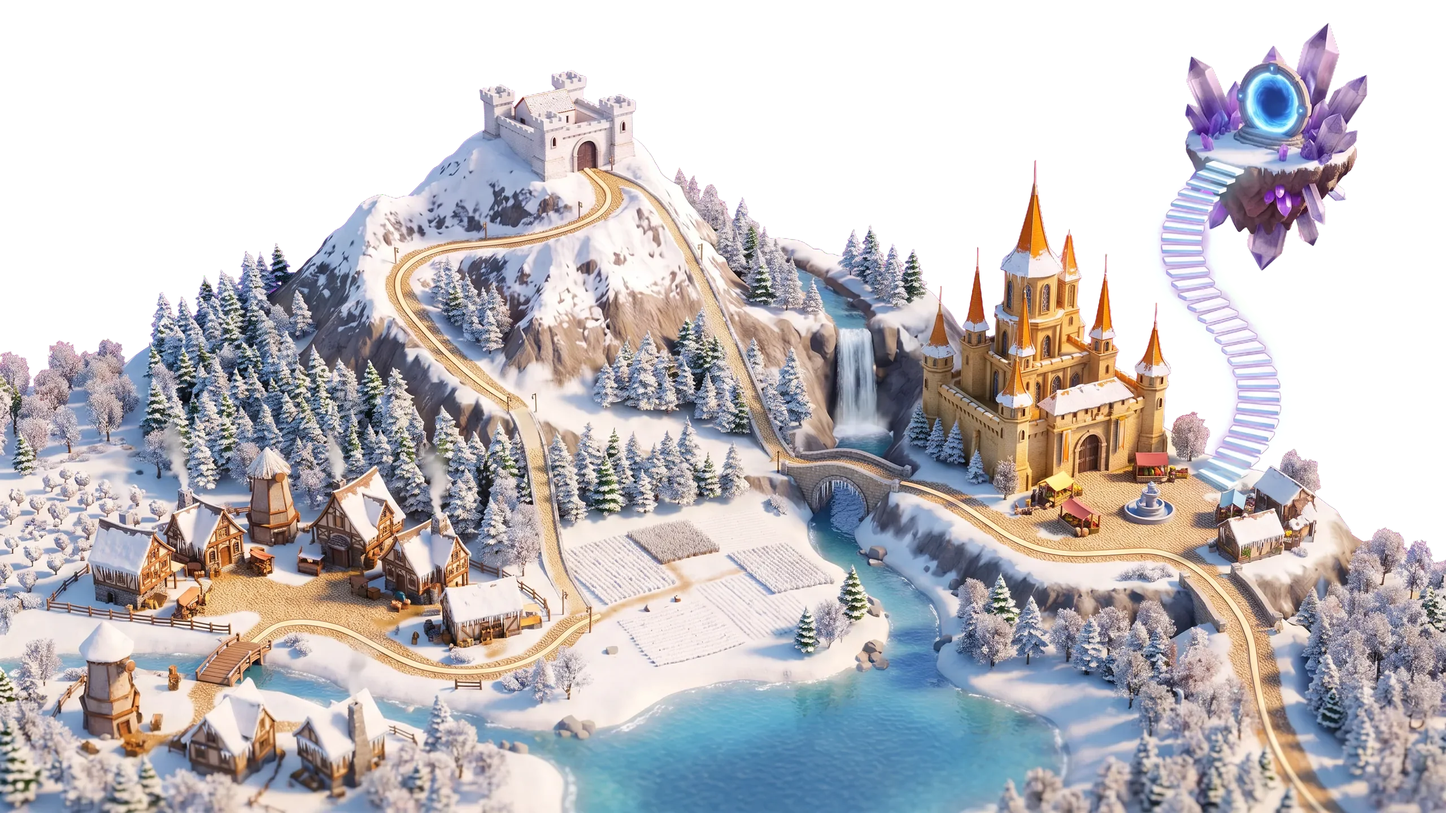
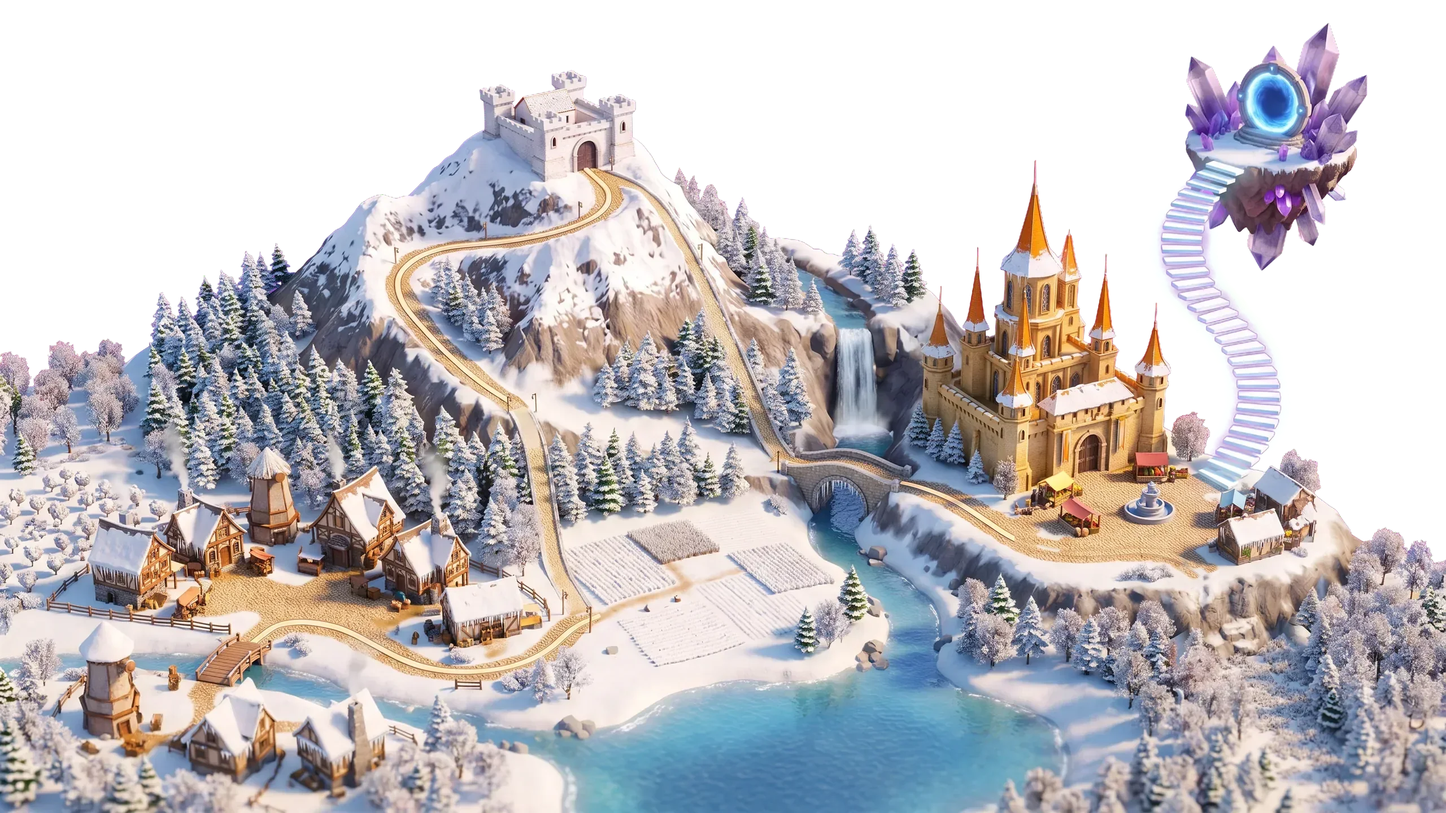
Team Quest map: clean sealed scroll, styled idle note, paint out the stray road
- The sealed scroll in the general view had a grey box round it: the rods'
  drop-shadow sat on the cropped picture and filled its whole crop strip. Each
  rod now casts a soft painted shadow instead (no filter, so it costs nothing
  while the scroll floats).
- The general-view note lost its styling because the map's stylesheet only
  arrived with the world; the sealed scroll now fetches it and shows once it
  applies. The note sits just under the scroll.
- The painting had a road branch running from the citadel square down off the
  map, edged with a cream kerb that read as a white line: painted out in all
  four seasons (and its night lamp light), kerb removed from the square edge.

Claude-Session: https://claude.ai/code/session_014YnXNjek2g3Lk1qyUU884y

Changed region(s): [[0.8125, 0.6875, 0.9375, 1.0], [0.6875, 0.6562, 0.8125, 0.6875]]

diff --git a/styles/team_quest_map_living.css b/styles/team_quest_map_living.css
@@ -82,6 +82,8 @@
    which line up at any size.
    Poses: rolled → moving → open (the ordinary resting map). */
 .tq-living-map { --tq-open: 1; }
+/* Waiting for its stylesheet (features/worldMap.js#renderSealedLeagueMapInto). */
+.tq-living-map[data-styling='pending'] { visibility: hidden; }
 .tq-living-map[data-scroll='rolled'] { --tq-open: 0; }
 
 .tq-unroll {
@@ -135,8 +137,25 @@
     height: 100%;
     object-fit: fill;
     user-select: none;
-    filter: drop-shadow(0 1.2rem 1.25rem rgba(74, 42, 13, 0.3));
 }
+
+/* Each rod's soft shadow is a painted glow under it, not a filter: a
+   drop-shadow on the cropped picture fills its whole crop strip as a grey
+   box, and one on the moving side would be redrawn every frame. */
+.tq-unroll__side::before {
+    content: '';
+    position: absolute;
+    top: 9%;
+    bottom: 3%;
+    width: 6%;
+    border-radius: 50%;
+    background: radial-gradient(closest-side, rgba(74, 42, 13, 0.3), rgba(74, 42, 13, 0.12) 60%, rgba(74, 42, 13, 0));
+    transform: translateY(1.2rem);
+    pointer-events: none;
+}
+
+.tq-unroll__side--left::before { left: -0.6%; }
+.tq-unroll__side--right::before { right: -0.6%; }
 
 .tq-unroll__side--left .tq-unroll__roll { clip-path: inset(0 95.17% 0 0); }
 .tq-unroll__side--right .tq-unroll__roll { clip-path: inset(0 0 0 95.17%); }

diff --git a/features/worldMap.js b/features/worldMap.js
@@ -576,7 +576,15 @@ export function renderSealedLeagueMapInto(slot, note = '') {
     let root = slot.querySelector('[data-living-quest-map]');
     if (!root) {
         slot.innerHTML = generateLeagueMapHtml([], {});
-        root = arrive(slot.querySelector('[data-living-quest-map]'));
+        root = slot.querySelector('[data-living-quest-map]');
+        // The scroll's own styles come with the world (worldScene.js); with no
+        // map started yet, fetch them here and show the scroll once they apply.
+        root.dataset.styling = 'pending';
+        const shown = root;
+        import('../styles/quest_world.css').catch(() => {}).then(() => {
+            delete shown.dataset.styling;
+            arrive(shown);
+        });
     }
     root.classList.add('is-idle');
     setIdleNote(root, note);

diff --git a/styles/quest_world.css b/styles/quest_world.css
@@ -1711,7 +1711,8 @@
 
 .tq-idle-note {
     position: absolute;
-    bottom: 9%;
+    /* Just under the sealed scroll's lower finial, clear of the rods. */
+    top: calc(100% + 0.5rem);
     left: 50%;
     z-index: 5;
     margin: 0;

diff --git a/tools/team-quest-map/remove_road_branch.py b/tools/team-quest-map/remove_road_branch.py
@@ -1,0 +1,44 @@
+"""Paints out the road branch that ran from the citadel square down off the map.
+
+A 640 x 576 crop of land-<season>-2560.webp at (1856, 864) was repainted without
+the branch by gemini-3.1-flash-image (prompt in README.md); this aligns each
+repaint on the unchanged square and pastes it inside the branch's outline, at
+2560 and 1600, and darkens the night lights there. Run in the folder holding
+<season>.png crops and e-<season>.png repaints. `preview` draws the outline.
+"""
+import cv2, numpy as np, sys
+from PIL import Image, ImageDraw
+P='/home/user/TheGreatClassQuest/assets/team-quest-map/painted/'
+X0,Y0,W,H=1856,864,640,576
+POLY=[(205,128),(335,112),(432,210),(428,262),(452,330),(485,420),(530,520),(560,576),(390,576),(330,470),(282,360),(240,250),(205,180)]
+def mask():
+    m=Image.new('L',(W,H),0); ImageDraw.Draw(m).polygon(POLY,fill=255)
+    m=np.asarray(m).astype(np.float32)/255
+    m=cv2.dilate(m,np.ones((9,9),np.uint8)); return cv2.GaussianBlur(m,(0,0),9).clip(0,1)
+def align(orig,edit):
+    g1=cv2.cvtColor(orig,cv2.COLOR_RGB2GRAY); g2=cv2.cvtColor(edit,cv2.COLOR_RGB2GRAY)
+    top=np.zeros_like(g1); top[:130]=255
+    sift=cv2.SIFT_create(4000)
+    k1,d1=sift.detectAndCompute(g1,top); k2,d2=sift.detectAndCompute(g2,None)
+    m=cv2.BFMatcher().knnMatch(d2,d1,k=2); good=[a for a,b in m if a.distance<0.7*b.distance]
+    src=np.float32([k2[g.queryIdx].pt for g in good]); dst=np.float32([k1[g.trainIdx].pt for g in good])
+    A,inl=cv2.estimateAffine2D(src,dst,ransacReprojThreshold=3)
+    print(' matches',len(good),'inliers',int(inl.sum()),A.round(3).tolist())
+    return cv2.warpAffine(edit,A,(W,H),flags=cv2.INTER_LANCZOS4,borderMode=cv2.BORDER_REFLECT)
+M=mask()
+if sys.argv[1:]==['preview']:
+    im=Image.open('autumn.png').convert('RGB'); d=ImageDraw.Draw(im); d.polygon(POLY,outline=(0,255,255)); im.save('poly.png'); sys.exit()
+lights=np.asarray(Image.open(P+'lights-1600.webp').convert('RGB')).astype(np.float32).copy()
+for s in ['autumn','winter','spring','summer']:
+    land=np.asarray(Image.open(P+f'land-{s}-2560.webp').convert('RGBA')).astype(np.float32).copy()
+    orig=land[Y0:Y0+H,X0:X0+W,:3].astype(np.uint8).copy()
+    edit=np.asarray(Image.open(f'e-{s}.png').convert('RGB'))
+    print(s); e=align(orig,edit).astype(np.float32)
+    land[Y0:Y0+H,X0:X0+W,:3]=land[Y0:Y0+H,X0:X0+W,:3]*(1-M[...,None])+e*M[...,None]
+    Image.fromarray(land.clip(0,255).astype(np.uint8),'RGBA').save(P+f'land-{s}-2560.webp','WEBP',quality=84,method=6)
+    Image.fromarray(land.clip(0,255).astype(np.uint8),'RGBA').resize((1600,900),Image.LANCZOS).save(P+f'land-{s}-1600.webp','WEBP',quality=84,method=6)
+    Image.fromarray(land[Y0:Y0+H,X0:X0+W].clip(0,255).astype(np.uint8),'RGBA').save(f'after-{s}.png')
+# The lights layer: no lamp light along the road that is gone.
+m16=cv2.resize(M,(400,360))
+lights[540:900,1160:1560]*=(1-m16[...,None])
+Image.fromarray(lights.clip(0,255).astype(np.uint8)).save(P+'lights-1600.webp','WEBP',quality=84,method=6)

diff --git a/tools/team-quest-map/remove_square_kerb.py b/tools/team-quest-map/remove_square_kerb.py
@@ -1,0 +1,44 @@
+"""Takes the cream kerb line off the citadel square's lower edge (it ran on into
+the removed branch and read as a stray white line): each kerb pixel is replaced
+by the cobbles just above it, or the verge below where it left the square.
+Run with `write` to save; without it, lineview.png shows before/after/mask.
+"""
+import cv2, numpy as np, sys
+from PIL import Image, ImageDraw
+P='/home/user/TheGreatClassQuest/assets/team-quest-map/painted/'
+X0,Y0,W,H=1796,924,420,130
+PATH=[(0,30),(50,47),(150,51),(230,47),(280,57),(330,84),(360,100)]
+band=Image.new('L',(W,H),0); ImageDraw.Draw(band).line(PATH,fill=255,width=30,joint='curve')
+band=np.asarray(band)>0
+write = sys.argv[1:] == ['write']
+views=[]
+for s in ['autumn','winter','spring','summer']:
+    land=np.asarray(Image.open(P+f'land-{s}-2560.webp').convert('RGBA')).astype(np.float32).copy()
+    reg=land[Y0:Y0+H,X0:X0+W,:3]
+    r,g,b=reg[...,0],reg[...,1],reg[...,2]
+    cream=(r>232)&(g>212)&(b>160)&(b<222)&(r-b<85)&band
+    n,lab,st,_=cv2.connectedComponentsWithStats(cream.astype(np.uint8))
+    keep=[k for k in range(1,n) if st[k,cv2.CC_STAT_WIDTH]>40]
+    cream=np.isin(lab,keep)
+    m=cv2.morphologyEx(cream.astype(np.uint8),cv2.MORPH_CLOSE,np.ones((5,5),np.uint8))
+    m=cv2.dilate(m,np.ones((5,5),np.uint8)).astype(np.float32)
+    m=cv2.GaussianBlur(m,(0,0),1.6).clip(0,1)
+    src=land[Y0-20:Y0-20+H,X0:X0+W,:3].copy()  # the same stretch 20 px higher: cobbles
+    # Where the line ran off the square into the verge, take the verge below instead.
+    below=land[Y0+18:Y0+18+H,X0:X0+W,:3]
+    t=np.clip((np.arange(W)-290)/20,0,1)[None,:,None]
+    src=src*(1-t)+below*t
+    out=reg*(1-m[...,None])+src*m[...,None]
+    land[Y0:Y0+H,X0:X0+W,:3]=out
+    views.append(np.concatenate([reg.copy() if False else np.asarray(Image.open(P+f'land-{s}-2560.webp').convert('RGB'))[Y0:Y0+H,X0:X0+W],out.clip(0,255).astype(np.uint8),(np.dstack([m]*3)*255).astype(np.uint8)],0))
+    if write:
+        Image.fromarray(land.clip(0,255).astype(np.uint8),'RGBA').save(P+f'land-{s}-2560.webp','WEBP',quality=84,method=6)
+        Image.fromarray(land.clip(0,255).astype(np.uint8),'RGBA').resize((1600,900),Image.LANCZOS).save(P+f'land-{s}-1600.webp','WEBP',quality=84,method=6)
+    if s=='autumn': lm=m
+Image.fromarray(np.concatenate(views,1).astype(np.uint8)).save('lineview.png')
+if write:
+    L=np.asarray(Image.open(P+'lights-1600.webp').convert('RGB')).astype(np.float32).copy()
+    mm=cv2.dilate(lm,np.ones((9,9),np.uint8)); mm=cv2.resize(mm,(round(W/1.6),round(H/1.6)))
+    x,y=round(X0/1.6),round(Y0/1.6)
+    L[y:y+mm.shape[0],x:x+mm.shape[1]]*=(1-mm[...,None]*0.9)
+    Image.fromarray(L.clip(0,255).astype(np.uint8)).save(P+'lights-1600.webp','WEBP',quality=84,method=6)

diff --git a/tools/team-quest-map/README.md b/tools/team-quest-map/README.md
@@ -87,3 +87,12 @@ same offset so the body stays put), `balloon.webp` and `kite.webp`:
 `build_place_sounds.py` mixes the short sound each place plays when its card
 opens (`assets/team-quest-map/sounds/`): CC0 recordings from BigSoundBank plus a
 synthesised crystal shimmer and Portal swell. The ids are in the script.
+
+## The road branch below the citadel
+
+The painting had a second road running from the citadel square down off the
+bottom edge, edged with a cream kerb that read as a white line beside the
+route. `remove_road_branch.py` pastes repaints of that corner (prompt: remove
+the road that curves down from the square, its cream edge line, walls and lamp
+post, and paint the surrounding trees, grass and cliff in their place) and
+`remove_square_kerb.py` takes the kerb off the square's edge.
